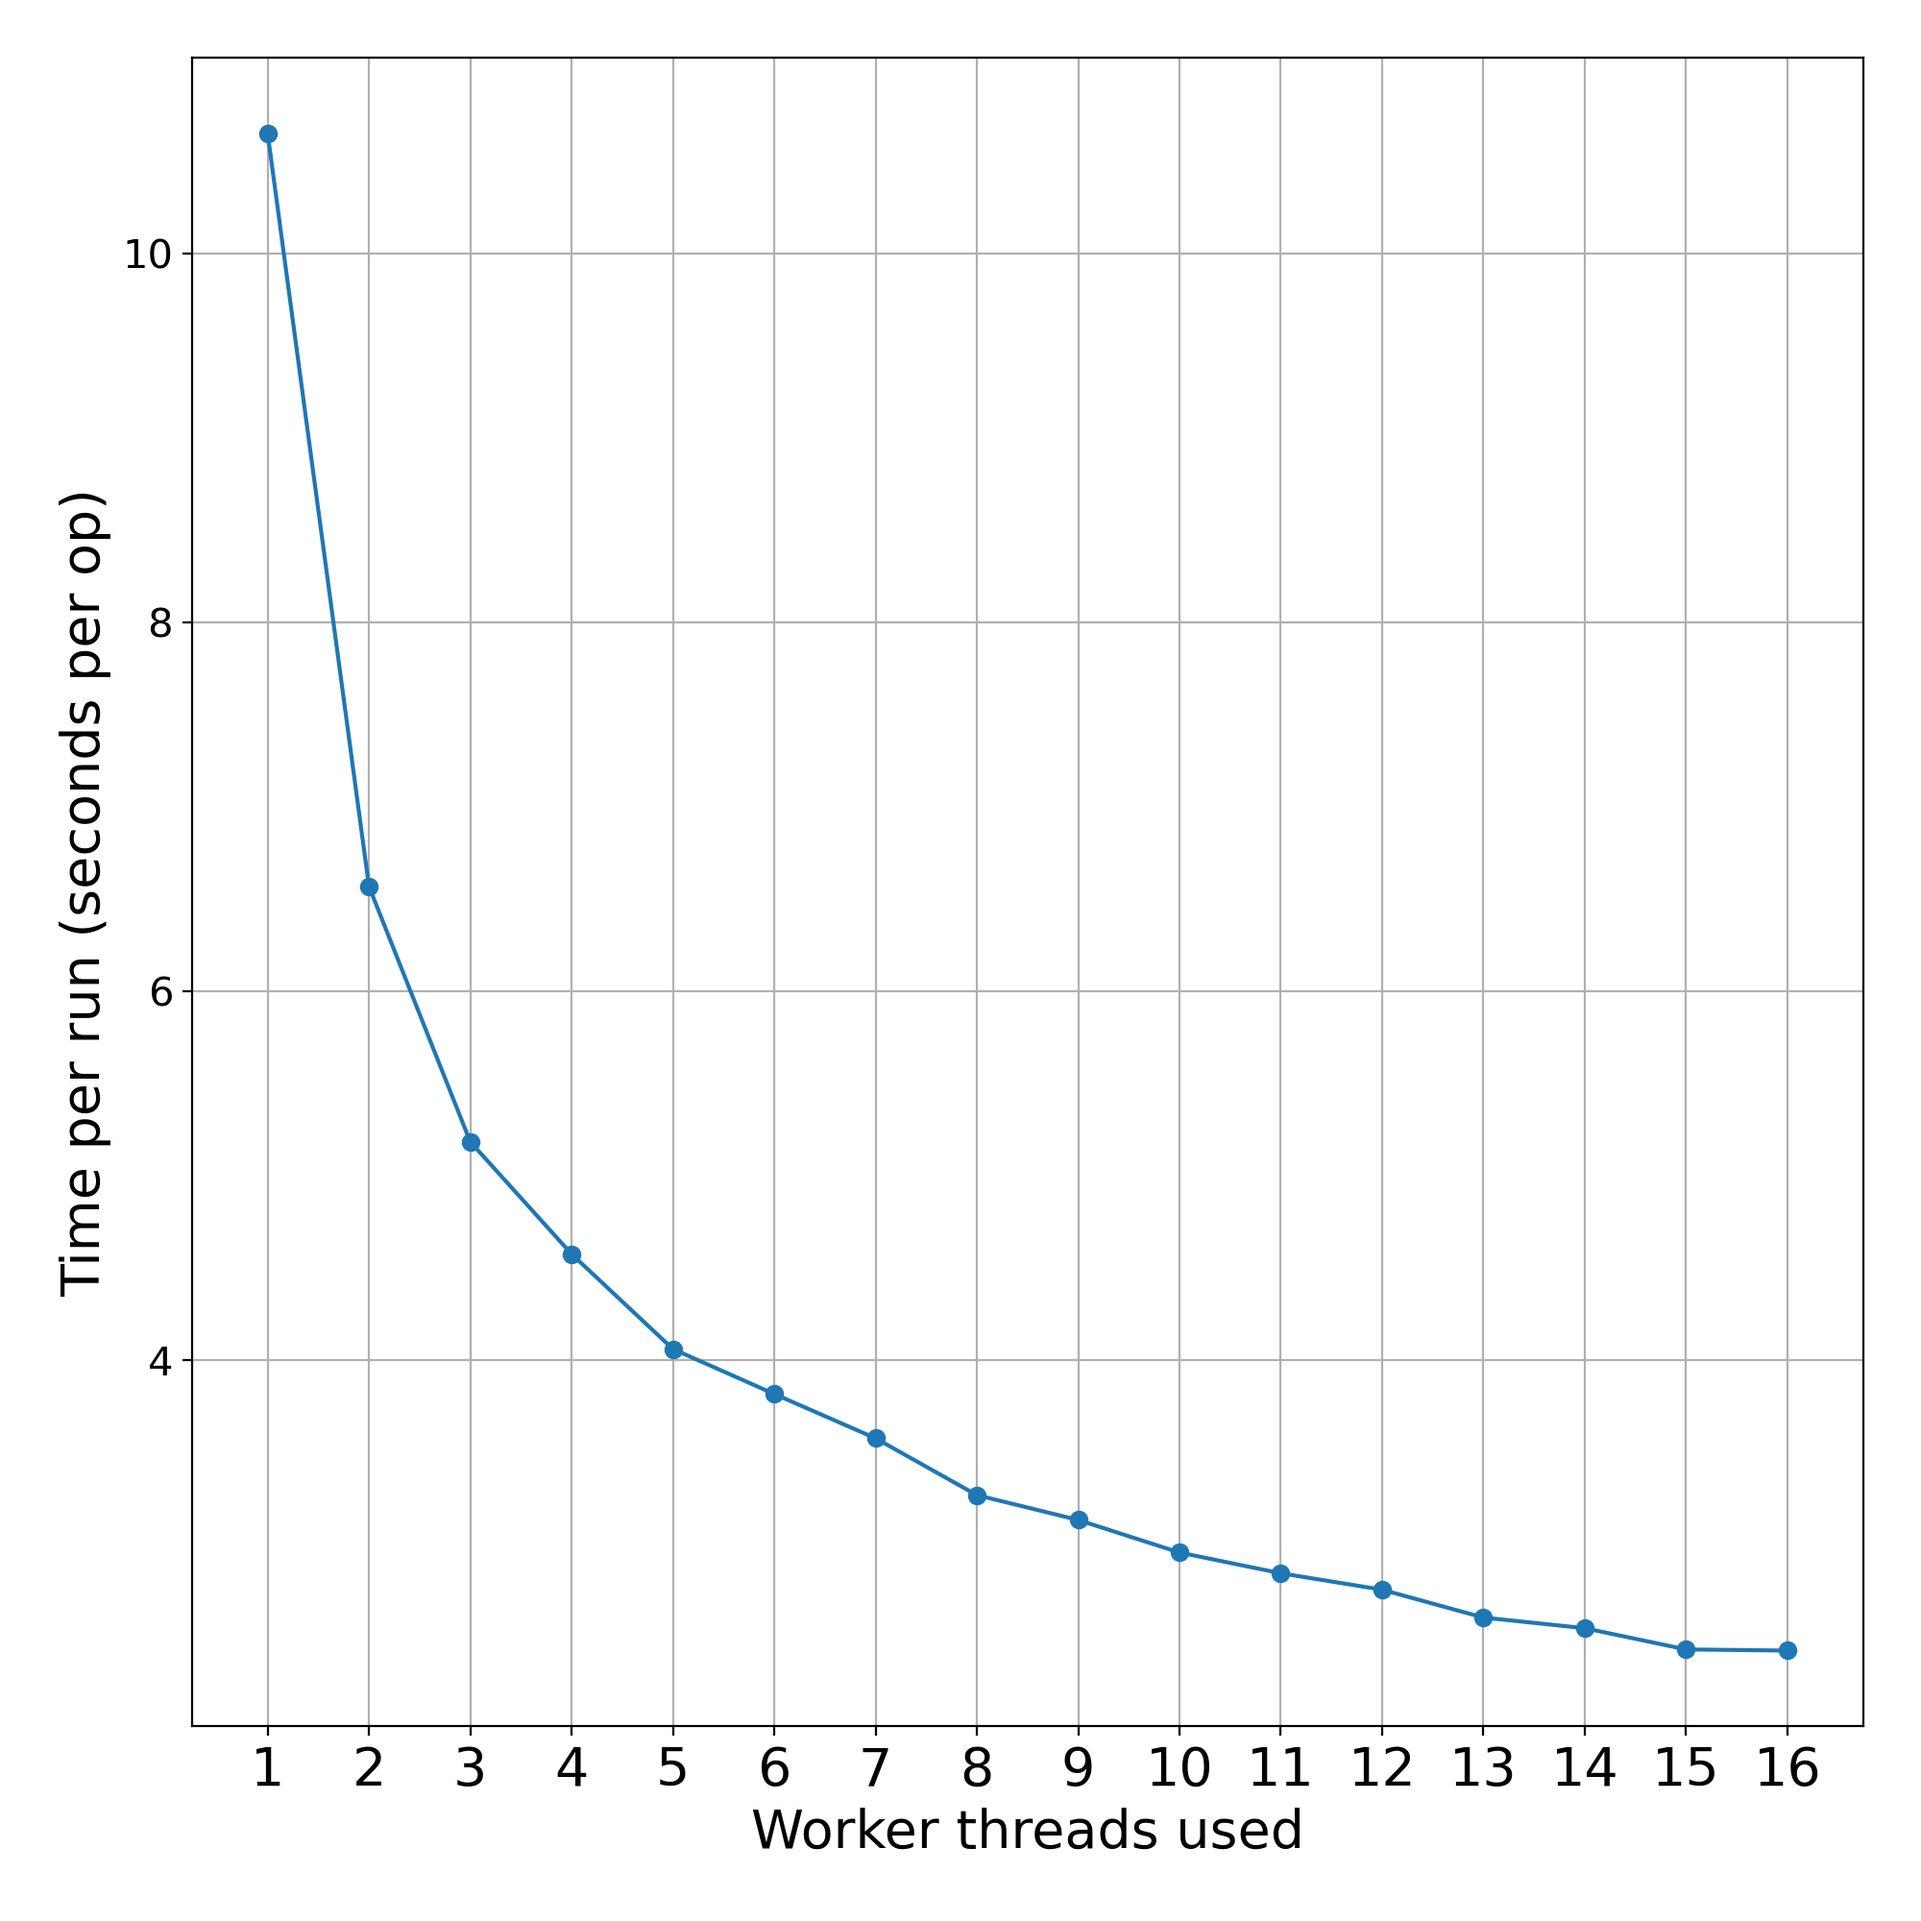
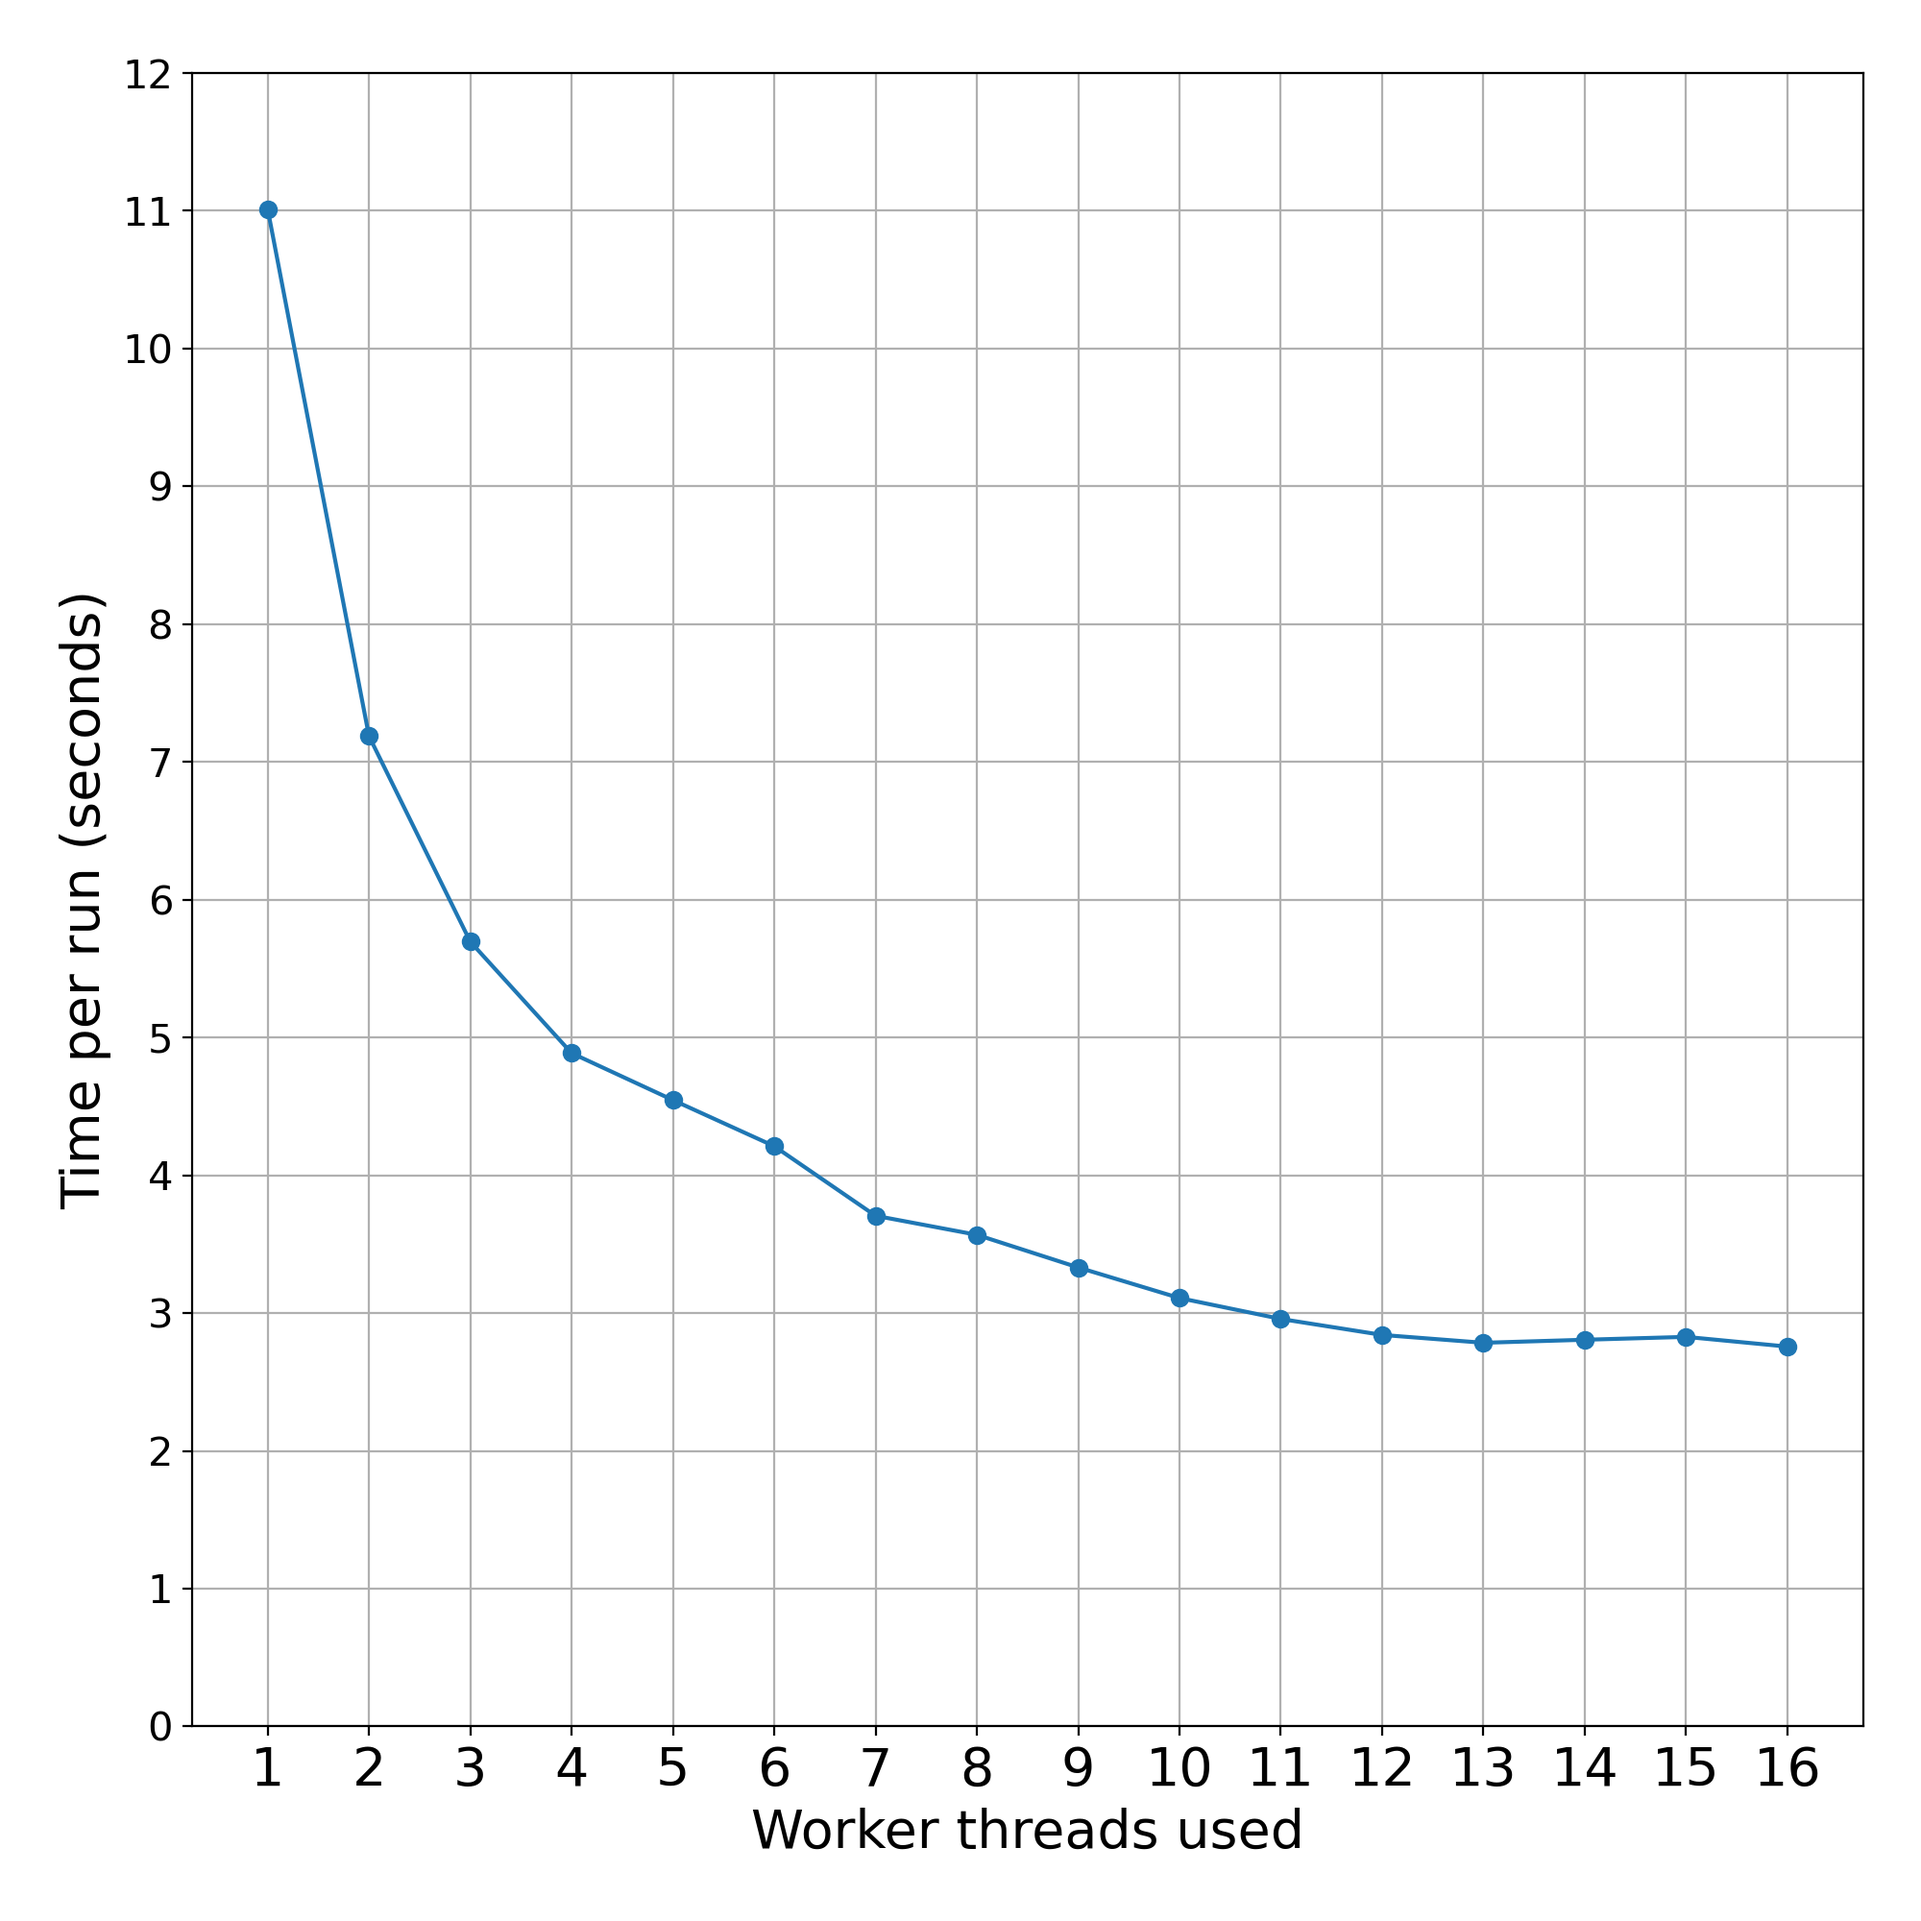
persistent workers

diff --git a/gol/distributor.go b/gol/distributor.go
@@ -49,13 +49,27 @@ func distributor(p Params, c distributorChannels, keyPresses <-chan rune) {
 	pauseFlag := false
 	turn := 0
 	completedTurns := 0
-
+	var tasks chan workerTask
+	var workerWaiting sync.WaitGroup
 	c.events <- StateChange{completedTurns, Executing}
 
 	//Start the AliveCellCount Event
 	ticker := time.NewTicker(2 * time.Second)
 	allTurnsDone := make(chan bool)
 	//currentTurnDone := make(chan bool)
+
+	if p.Threads > 1 {
+		if p.Turns > 0 {
+			tasks = make(chan workerTask)
+			workerWaiting.Add(p.Threads)
+			for i := 0; i < p.Threads; i++ {
+				go func() {
+					defer workerWaiting.Done()
+					workerNoShutDown(p, c, tasks)
+				}()
+			}
+		}
+	}
 
 	if p.Turns == 0 {
 		goto endSequence //skip all instantiation if p.Turns is 0
@@ -68,6 +82,9 @@ func distributor(p Params, c distributorChannels, keyPresses <-chan rune) {
 
 				return
 			case <-ticker.C:
+				//if pauseFlag {
+				//	continue
+				//}
 				mu.Lock()
 				turn2 := completedTurns
 				alive2 := len(calculateAliveCells(p, world))
@@ -132,7 +149,7 @@ func distributor(p Params, c distributorChannels, keyPresses <-chan rune) {
 			antiRacingWorld := world
 			mu.Unlock()
 
-			antiRaceNextWorld := executer(p, c, antiRacingTurn, &mu, antiRacingWorld)
+			antiRaceNextWorld := executer(p, c, antiRacingTurn, &mu, antiRacingWorld, tasks)
 
 			mu.Lock()
 			world = antiRaceNextWorld
@@ -150,6 +167,13 @@ func distributor(p Params, c distributorChannels, keyPresses <-chan rune) {
 
 	//stops the alive cells ticker
 	allTurnsDone <- true
+
+	if p.Threads > 1 {
+		if p.Turns > 0 {
+			close(tasks)
+			workerWaiting.Wait()
+		}
+	}
 
 	// TODO: Report the final state using FinalTurnCompleteEvent.
 endSequence:
@@ -210,13 +234,13 @@ func makeWorld(height, width int) [][]byte {
 	return world
 }
 
-func executer(p Params, c distributorChannels, completedTurns int, mu *sync.Mutex, world [][]byte) [][]byte {
+func executer(p Params, c distributorChannels, completedTurns int, mu *sync.Mutex, world [][]byte, tasks chan<- workerTask) [][]byte {
 	var newWorld [][]byte
 
 	if p.Threads == 1 {
 		newWorld = calculateNextState(c, p, p.Turns, completedTurns, 0, world)
 	} else {
-		//Calculate chunks for the workers
+		////Calculate chunks for the workers
 		chunkHeight := p.ImageHeight / p.Threads
 		chunkRemain := p.ImageHeight - (chunkHeight * p.Threads)
 		outyChannels := make([]chan [][]byte, p.Threads)
@@ -231,14 +255,24 @@ func executer(p Params, c distributorChannels, completedTurns int, mu *sync.Mute
 				chunkRemain--
 			}
 			endY := startY + workerChunkHeight
-			go worker(
-				p,
-				c,
-				world,
-				startY,
-				endY,
-				completedTurns,
-				outyChannels[i])
+
+			tasks <- workerTask{
+				world:  world,
+				startY: startY,
+				endY:   endY,
+				turn:   completedTurns,
+				out:    outyChannels[i],
+			}
+
+			//	go worker(
+			//		p,
+			//		c,
+			//		world,
+			//		startY,
+			//		endY,
+			//		completedTurns,
+			//		outyChannels[i])
+
 			startY = endY
 		}
 		for i := 0; i < p.Threads; i++ {

diff --git a/plot_compare_line.py b/plot_compare_line.py
@@ -1,0 +1,93 @@
+import sys
+import matplotlib.pyplot as plt
+
+plt.rcParams.update({
+    "font.size": 20,
+    "axes.labelsize": 20,
+    "xtick.labelsize": 20,
+    "ytick.labelsize": 15,
+    "legend.fontsize": 25
+})
+
+def parse_file(path: str):
+    """
+    Parse a whitespace-separated benchmark file with lines like:
+
+    BenchmarkGol/512x512x1000-1-16          2   10152768548 ns/op
+    """
+
+    threads_to_times = {}
+
+    with open(path, "r") as f:
+        for line in f:
+            line = line.strip()
+            if not line.startswith("Benchmark"):
+                continue
+
+            parts = line.split()
+            if len(parts) < 4:
+                continue
+
+            name = parts[0]
+
+            try:
+                time_ns = int(parts[-2])
+            except ValueError:
+                continue
+
+            bits = name.split("-")
+            if len(bits) < 2:
+                continue
+
+            try:
+                threads = int(bits[-2])
+            except ValueError:
+                continue
+
+            threads_to_times.setdefault(threads, []).append(time_ns)
+
+    threads_sorted = sorted(threads_to_times.keys())
+    times_seconds = [
+        (sum(threads_to_times[t]) / len(threads_to_times[t])) / 1e9
+        for t in threads_sorted
+    ]
+
+    return threads_sorted, times_seconds
+
+
+def main():
+    if len(sys.argv) < 4:
+        print("Usage: python plot_compare_line.py file1 file2 file3 [label1 label2 label3]")
+        sys.exit(1)
+
+    file1 = sys.argv[1]
+    file2 = sys.argv[2]
+    file3 = sys.argv[3]
+
+    label1 = sys.argv[4] if len(sys.argv) > 4 else "Run 1"
+    label2 = sys.argv[5] if len(sys.argv) > 5 else "Run 2"
+    label3 = sys.argv[6] if len(sys.argv) > 6 else "Run 3"
+
+    threads1, times1 = parse_file(file1)
+    threads2, times2 = parse_file(file2)
+    threads3, times3 = parse_file(file3)
+
+    plt.figure(figsize=(12, 10))
+    plt.plot(threads1, times1, marker="o", label=label1)
+    plt.plot(threads2, times2, marker="o", label=label2)
+    plt.plot(threads3, times3, marker="o", label=label3)
+
+    plt.xticks(range(1, 17, 1))
+    plt.yticks(range(0, 12, 1))
+
+    plt.xlabel("Worker threads")
+    plt.ylabel("Time per run (seconds)")
+    plt.title("")
+    plt.grid(True, linestyle="--", alpha=0.5)
+    plt.legend()
+    plt.tight_layout()
+    plt.show()
+
+
+if __name__ == "__main__":
+    main()

diff --git a/gol/worker.go b/gol/worker.go
@@ -1,21 +1,52 @@
 package gol
 
-func worker(p Params, c distributorChannels, world [][]byte, startY, endY, turn int, out chan<- [][]byte) {
-	chunkHeight := endY - startY
-
-	chunk := makeWorld(chunkHeight+2, p.ImageWidth)
-
-	for y := 0; y < chunkHeight+2; y++ {
-		sauceY := startY + y - 1
-
-		if sauceY < 0 {
-			sauceY = sauceY + p.ImageHeight
-		} else if sauceY >= p.ImageHeight {
-			sauceY = sauceY - p.ImageHeight
-		}
-		copy(chunk[y], world[sauceY])
-	}
-	next := calculateNextState(c, p, p.Turns, turn, startY, chunk)
-	trimItDown := next[1 : len(next)-1]
-	out <- trimItDown
+type workerTask struct {
+	world  [][]byte
+	startY int
+	endY   int
+	turn   int
+	out    chan<- [][]byte
 }
+
+func workerNoShutDown(p Params, c distributorChannels, tasks <-chan workerTask) {
+	for task := range tasks {
+		chunkHeight := task.endY - task.startY
+
+		chunky := makeWorld(chunkHeight+2, p.ImageWidth)
+
+		for y := 0; y < chunkHeight+2; y++ {
+			sauceY := task.startY + y - 1
+
+			if sauceY < 0 {
+				sauceY = sauceY + p.ImageHeight
+			} else if sauceY >= p.ImageHeight {
+				sauceY = sauceY - p.ImageHeight
+			}
+			copy(chunky[y], task.world[sauceY])
+		}
+		next := calculateNextState(c, p, p.Turns, task.turn, task.startY, chunky)
+		trimItDown := next[1 : len(next)-1]
+
+		task.out <- trimItDown
+	}
+}
+
+//func worker(p Params, c distributorChannels, world [][]byte, startY, endY, turn int, out chan<- [][]byte) {
+//	chunkHeight := endY - startY
+//
+//	chunk := makeWorld(chunkHeight+2, p.ImageWidth)
+//
+//	for y := 0; y < chunkHeight+2; y++ {
+//		sauceY := startY + y - 1
+//
+//		if sauceY < 0 {
+//			sauceY = sauceY + p.ImageHeight
+//		} else if sauceY >= p.ImageHeight {
+//			sauceY = sauceY - p.ImageHeight
+//		}
+//		copy(chunk[y], world[sauceY])
+//	}
+//	next := calculateNextState(c, p, p.Turns, turn, startY, chunk)
+//	trimItDown := next[1 : len(next)-1]
+//	out <- trimItDown
+//}

diff --git a/gol/next_state.go b/gol/next_state.go
@@ -45,19 +45,21 @@ func calculateNextState(c distributorChannels, p Params, turns, turn, startY int
 			if alive == true {
 				if adjacentAlive < 2 || adjacentAlive > 3 {
 					copyWorld[i][j] = 0
+					listOfFlippedInner = append(listOfFlippedInner, util.Cell{j, globalY})
 					//listOfFlippedInner = append(listOfFlippedInner, newCell(j, globalY))
 				} else {
 					copyWorld[i][j] = 255
 				}
 			} else {
 				if adjacentAlive == 3 {
+					listOfFlippedInner = append(listOfFlippedInner, util.Cell{j, globalY})
 					copyWorld[i][j] = 255
 					//listOfFlippedInner = append(listOfFlippedInner, newCell(j, globalY))
 				}
 			}
 			if copyWorld[i][j] != chunkedWorld[i][j] {
 				//fmt.Println(j, i+startY)
-				listOfFlippedInner = append(listOfFlippedInner, util.Cell{j, globalY})
+				//listOfFlippedInner = append(listOfFlippedInner, util.Cell{j, globalY})
 			}
 
 		}

diff --git a/plot.py b/plot.py
@@ -15,7 +15,7 @@ plt.rcParams.update({
 
 
 benchmark_data = pd.read_csv(
-    "results.csv",
+    "results_nofair.csv",
     delim_whitespace=True,
     header=None,
     names=["name", "iters", "time_ns", "unit"],
@@ -54,9 +54,12 @@ plt.plot(
     benchmark_data["time_sec"],
     marker="o",
 )
+plt.xticks(range(1, 17, 1))         # ticks every 1 on x-axis
+plt.yticks(range(0, 13, 1))         # ticks every 1 on y-axis (pick a sensible max)
+
 
 plt.xlabel("Worker threads used")
-plt.ylabel("Time per run (seconds per op)")
+plt.ylabel("Time per run (seconds)")
 plt.title("")
 plt.grid(True)
 plt.xticks(benchmark_data["threads"])  # discrete ticks at 1..16
